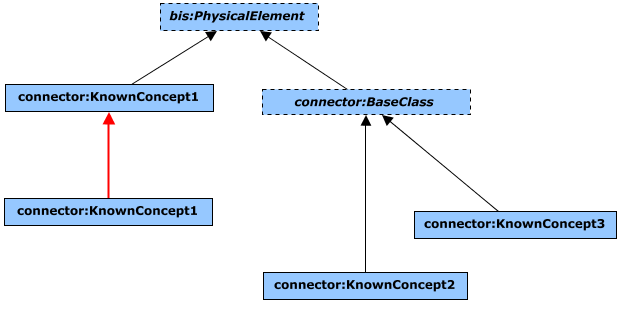
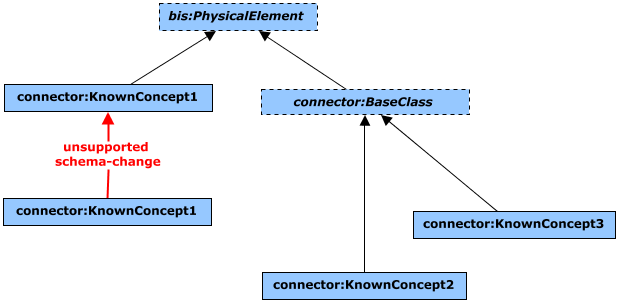
Add clarity to class-diagram during schema-evolution case.

diff --git a/docs/bis/guide/schema-evolution/schema-design-guidelines.md b/docs/bis/guide/schema-evolution/schema-design-guidelines.md
@@ -38,7 +38,7 @@ Schemas at the Core, Common or Discipline layers are meant to be shared by multi
 
   Avoid introducing an intermediate base-class in the iModel Connector schema for this kind of classes. They will get in the way of re-targeting a more appropriate base-class from a schema in the Discipline-Physical or Discipline-Other layers if the iModel Connector is able to understand the concept's semantics at a later time. The following two class-diagrams depict such a situation:
 
-  | Before "concept1" is introduced in a shared BIS schema | After "concept1" is introduced in a shared BIS schema. The iModel Connector base-class gets in the way while trying to align the corresponding concrete class. |
+  | Before "concept1" is introduced in a shared BIS schema. iModel Connector introduced a common base-class for known concepts with no target in BIS. | After "concept1" is introduced in a shared BIS schema. The iModel Connector base-class gets in the way while trying to align the corresponding concrete class. |
   |-|-|
   | ![Before schema evolution](../media/schema-evolution-base-conn-class-before.png) | ![After schema evolution](../media/schema-evolution-base-conn-class-after.png) |
 
